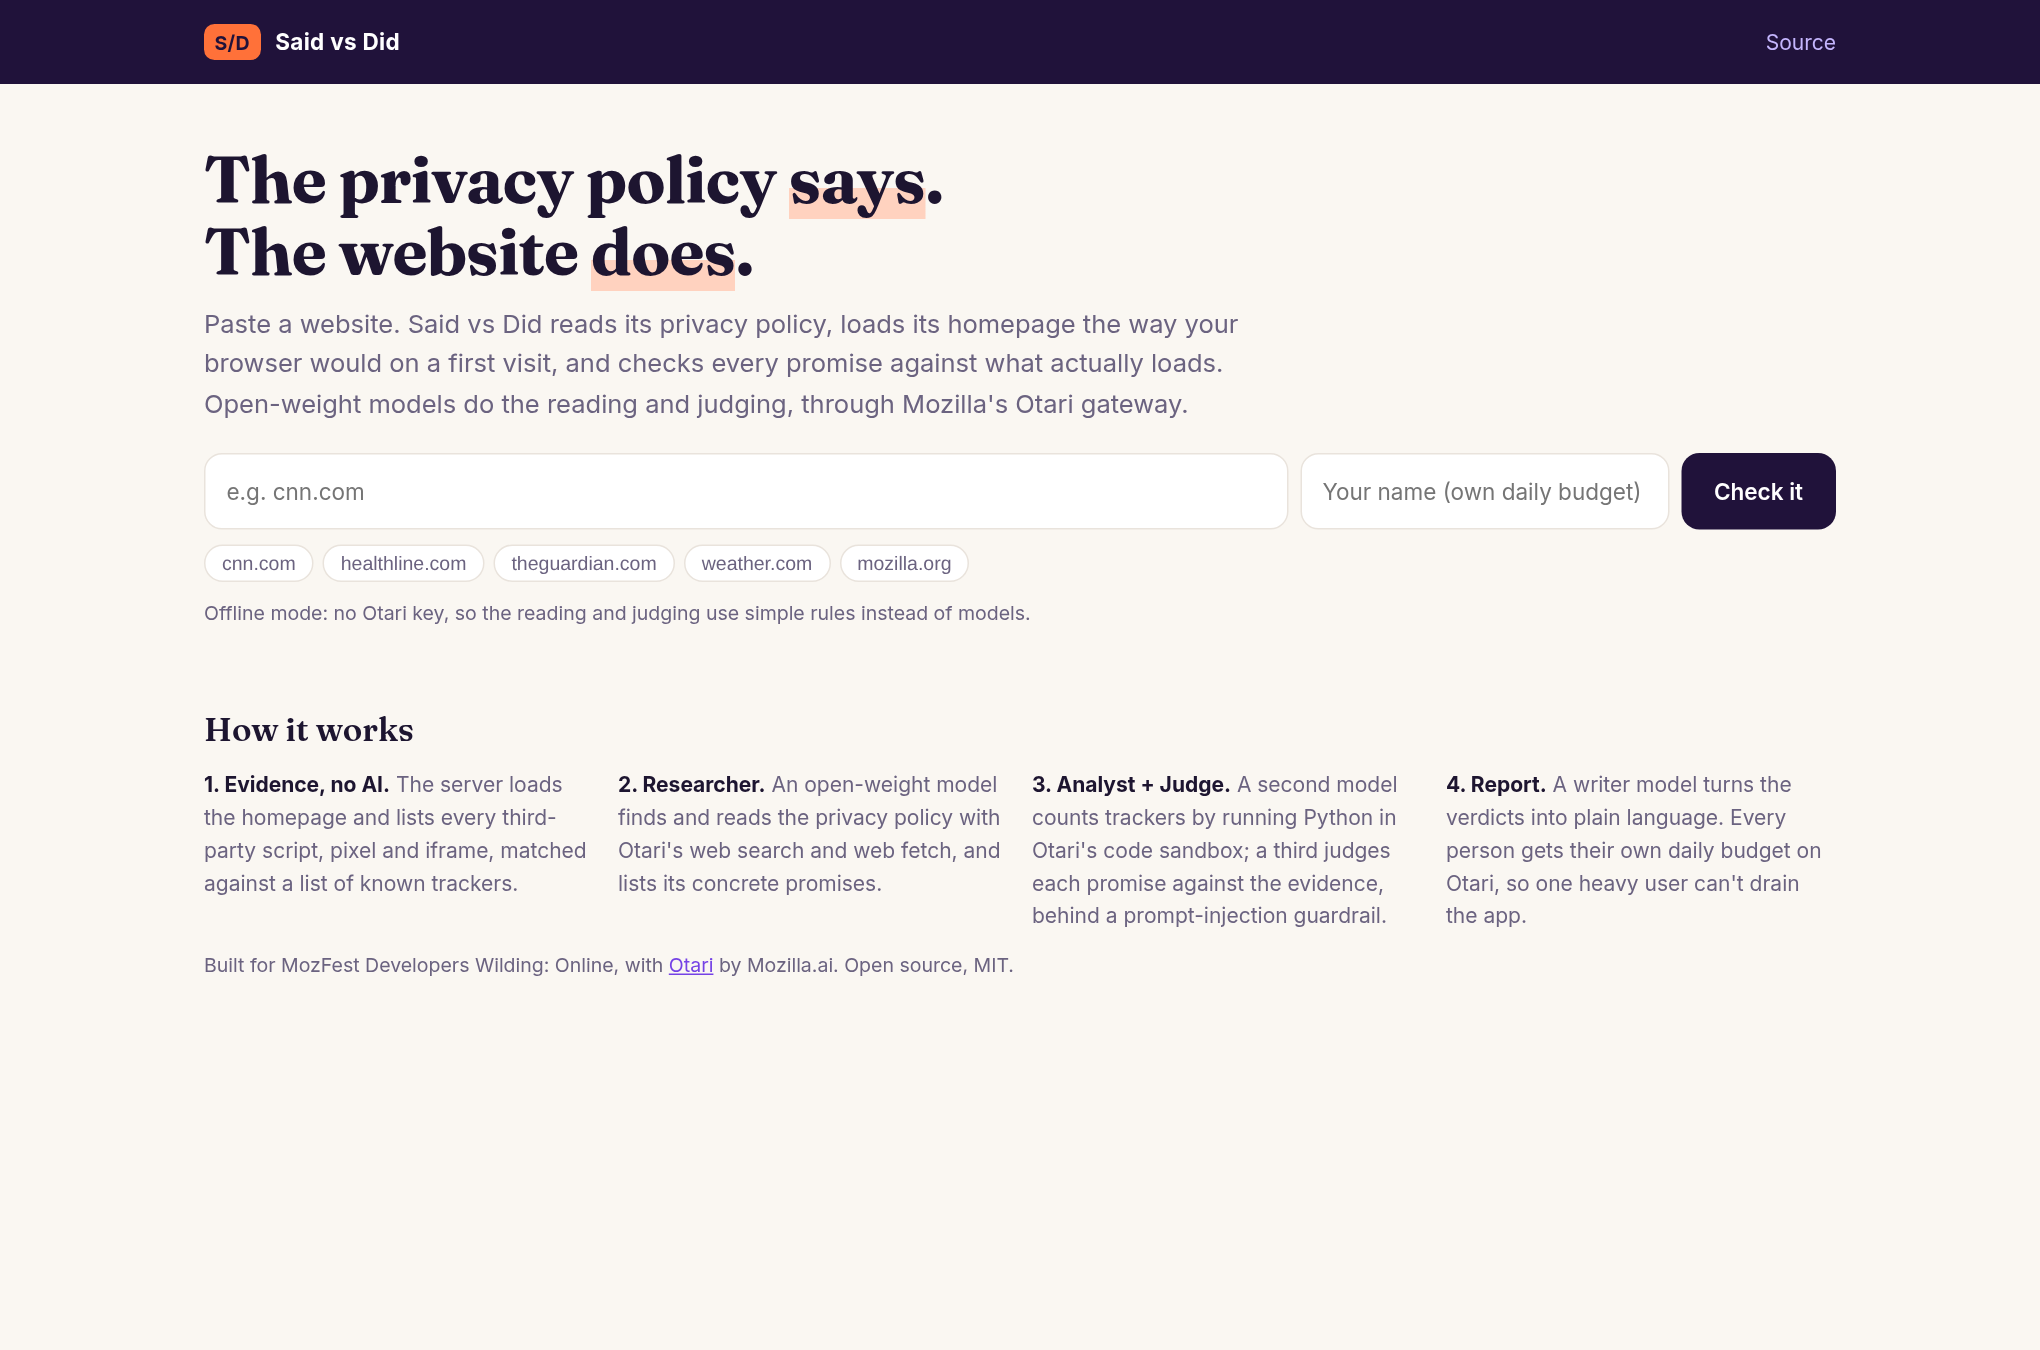
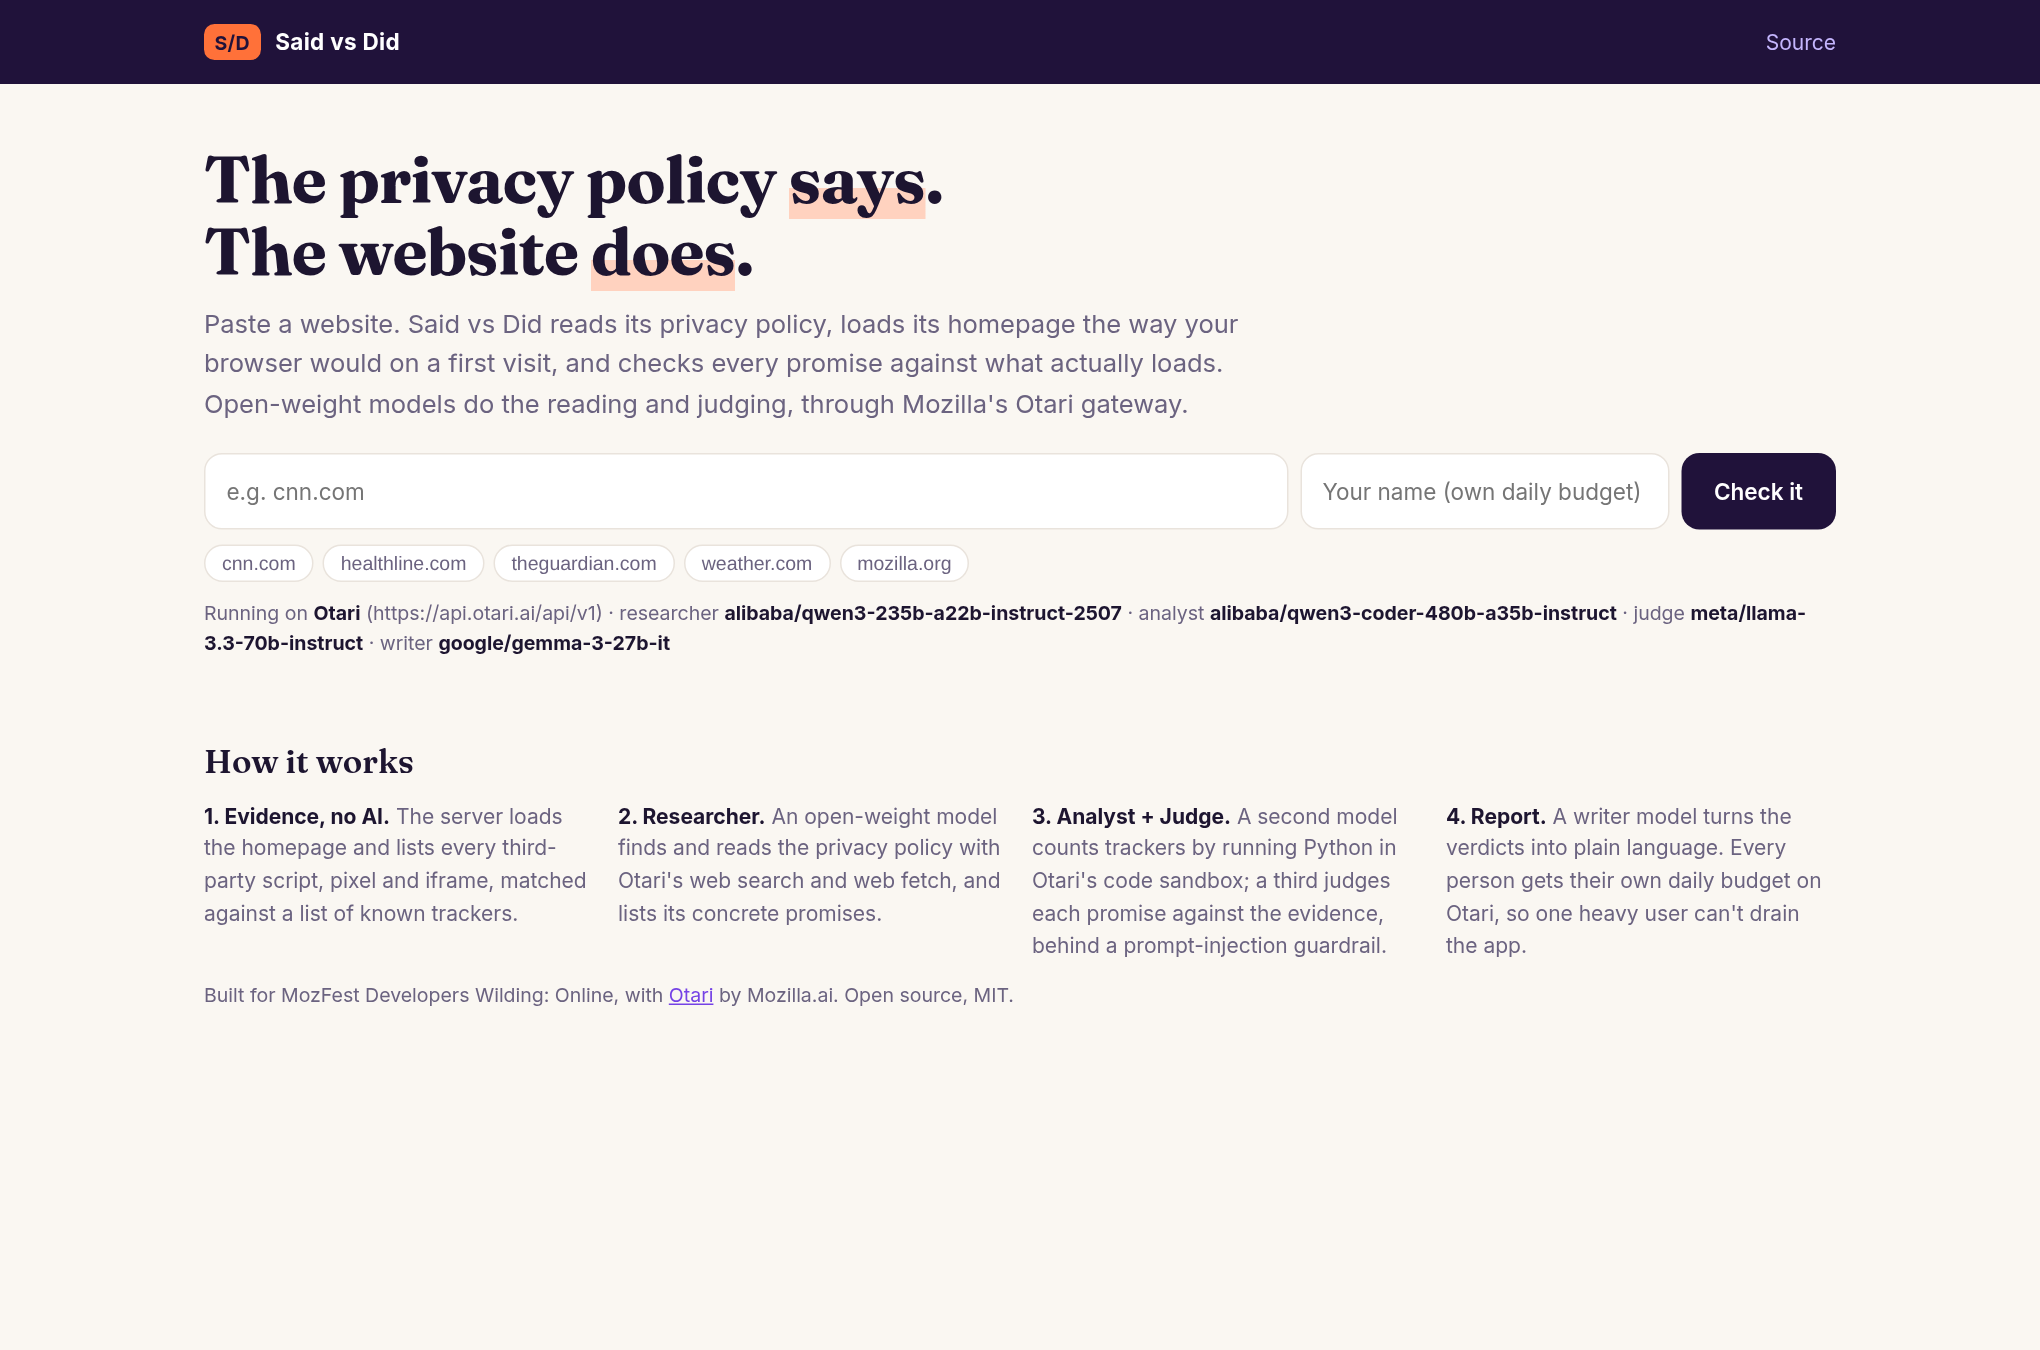
Judge falls back to a second open-weight model; retry empty policy reads; JS-rendered policies; real-mode screenshots

diff --git a/src/pipeline.ts b/src/pipeline.ts
@@ -31,6 +31,7 @@ export async function roles() {
     researcher: pick("SVD_RESEARCHER_MODEL", /qwen3-235b-a22b-instruct/i, /qwen3-next-80b/i, /qwen3/i, /deepseek-v3/i),
     analyst: pick("SVD_ANALYST_MODEL", /qwen3-coder-480b-a35b-instruct$/i, /qwen3-coder/i, /gpt-oss/i, /deepseek/i),
     judge: pick("SVD_JUDGE_MODEL", /llama-3\.3-70b/i, /llama-4-maverick/i, /gpt-oss-120b/i, /deepseek-v3/i), // set SVD_JUDGE_MODEL to a routing policy name for failover
+    judgeFallback: pick("SVD_JUDGE_FALLBACK_MODEL", /deepseek-v3\.2/i, /qwen3-next-80b/i, /llama-4-maverick/i),
     writer: pick("SVD_WRITER_MODEL", /gemma-3-27b/i, /mistral-small/i, /gemma-3-12b/i, /llama-3\.1-8b/i),
     tools: modelCache.tools,
     available: open,
@@ -119,13 +120,15 @@ export async function scan(input: string, opts: { endUser?: string; emit?: Emit 
     if (online) {
       const useTools = r!.tools.otari_web_fetch !== false;
       const policyText = useTools ? "" : policyUrl ? await fetchText(policyUrl) : "";
-      const out = await run("researcher", () => chat("researcher", {
+      const ask = () => run("researcher", () => chat("researcher", {
         model: r!.researcher, system: POLICY_SYSTEM, endUser, guard: "monitor",
         tools: useTools ? ["otari_web_search", "otari_web_fetch"] : undefined, json: !useTools,
         user: useTools
           ? `Website: ${evidence.finalUrl}\nPrivacy links found on its homepage: ${JSON.stringify(evidence.policyLinks)}\nFetch the privacy policy (search the web for "${evidence.site} privacy policy" if there is no link), then extract the claims.`
           : `Website: ${evidence.finalUrl}\nPolicy URL: ${policyUrl}\nPolicy text (untrusted):\n"""${policyText.slice(0, 40_000)}"""`,
       }), (t) => parseJson<{ policy_url?: string; claims: Claim[] }>(t));
+      let out = await ask().catch(() => ({ claims: [] as Claim[], policy_url: undefined }));
+      if (!out.claims?.length) out = await ask(); // models occasionally return an empty list: one retry
       claims = (out.claims ?? []).slice(0, 8).map((c, i) => ({ ...c, id: c.id || `c${i + 1}` }));
       policyUrl = out.policy_url || policyUrl;
     } else if (policyUrl) {
@@ -161,12 +164,19 @@ export async function scan(input: string, opts: { endUser?: string; emit?: Emit 
   if (claims.length) {
     emit("judge", "start", online ? `Judge (${r!.judge}) is checking each promise against the evidence, behind a prompt-injection guardrail…` : "Checking promises (rule-based)…");
     try {
-      verdicts = online
-        ? (await run("judge", () => chat("judge", {
-          model: r!.judge, system: JUDGE_SYSTEM, endUser, guard: "block", json: true,
-          user: `CLAIMS:\n${JSON.stringify(claims)}\n\nEVIDENCE (what the homepage loads before consent):\n${JSON.stringify(evidenceBrief(evidence))}`,
-        }), (t) => parseJson<{ verdicts: Verdict[] }>(t))).verdicts ?? []
-        : offlineVerdicts(claims, evidence);
+      const judgeWith = (model: string) => run("judge", () => chat("judge", {
+        model, system: JUDGE_SYSTEM, endUser, guard: "block", json: true,
+        user: `CLAIMS:\n${JSON.stringify(claims)}\n\nEVIDENCE (what the homepage loads before consent):\n${JSON.stringify(evidenceBrief(evidence))}`,
+      }), (t) => parseJson<{ verdicts: Verdict[] }>(t));
+      if (online) {
+        let out: { verdicts: Verdict[] };
+        try { out = await judgeWith(r!.judge); } catch (e) {
+          if (e instanceof OtariError && e.code === "guardrail_violation") throw e;
+          emit("judge", "start", `Judge ${r!.judge} failed (${(e as Error).message.slice(0, 60)}); falling back to ${r!.judgeFallback}…`);
+          out = await judgeWith(r!.judgeFallback);
+        }
+        verdicts = out.verdicts ?? [];
+      } else verdicts = offlineVerdicts(claims, evidence);
       const bad = verdicts.filter((v) => v.verdict === "contradicted").length;
       emit("judge", "ok", `${bad} of ${verdicts.length} promises contradicted by what the site loads`, verdicts);
     } catch (err) {

diff --git a/src/otari.ts b/src/otari.ts
@@ -68,7 +68,7 @@ async function chatOnce(role: string, o: ChatOptions): Promise<{ text: string; t
     method: "POST",
     headers: { Authorization: `Bearer ${OTARI_KEY}`, "Content-Type": "application/json" },
     body: JSON.stringify(body),
-    signal: AbortSignal.timeout(180_000),
+    signal: AbortSignal.timeout(150_000),
   });
   trace.ms = Date.now() - t0;
   trace.guardrails = res.headers.get("otari-guardrails") ?? undefined;
